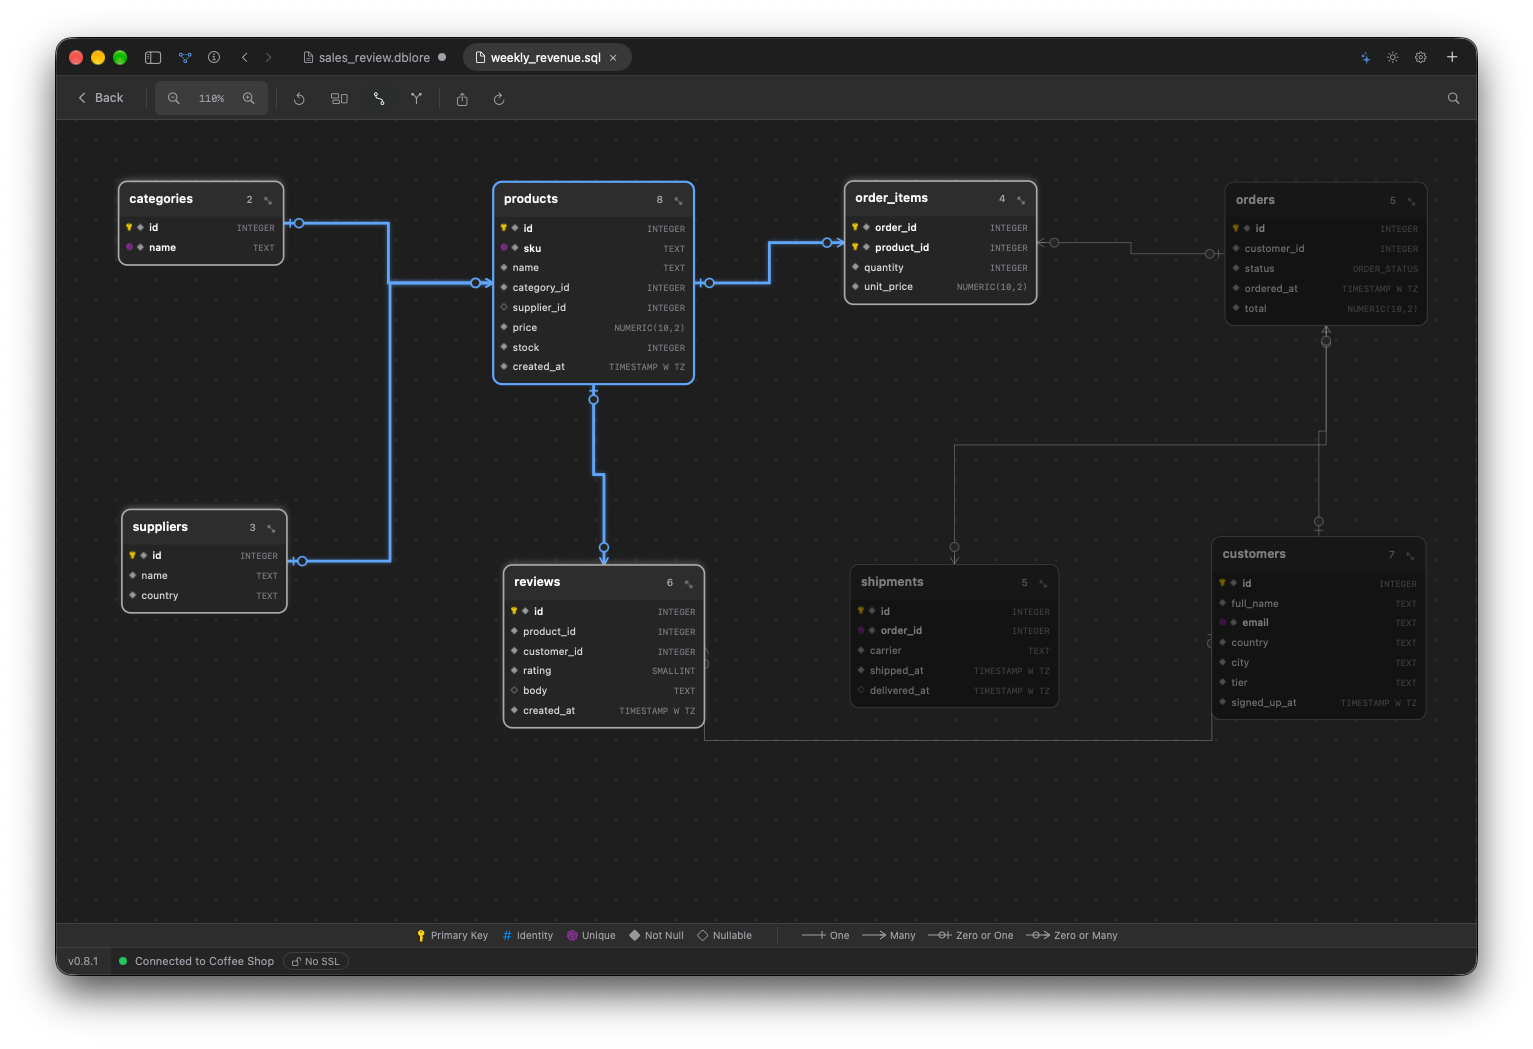
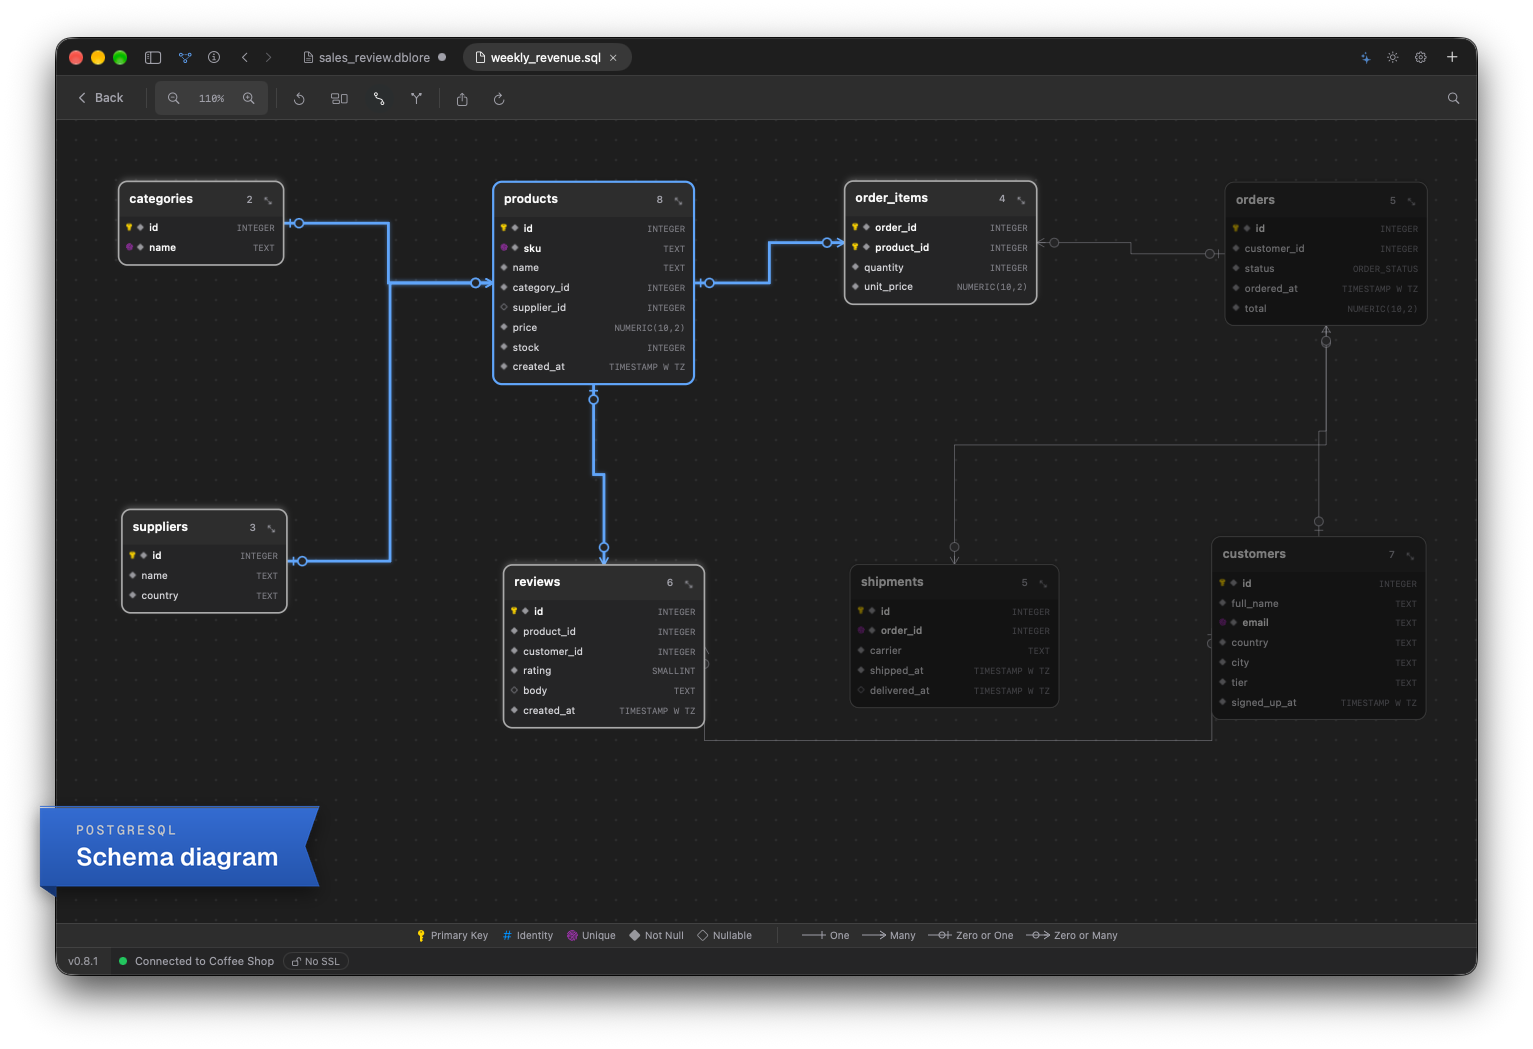
docs(website): label screenshots with database and feature ribbons

Changed region(s): [[0.0, 0.7626, 0.2146, 0.8541]]

diff --git a/website/README.md b/website/README.md
@@ -17,7 +17,7 @@ Open http://localhost:8080.
 - `tokens.css`: design tokens (OKLCH colors, Geist fonts, spacing). `styles.css`: layout and components.
 - `site.js`: theme toggle (the saved theme is applied by an inline script in each `<head>`).
 - The app version in each page header (`.version-badge`) is read at runtime from the same-origin `appcast.xml` (highest build number) by `site.js`; the static `v0.4.0` in each page is only a fallback for no-JS, local preview or fetch failure, so no hand edit is needed on release.
-- `logo.png`, `poster.jpg`, `screenshots/`: images (screenshots are copied from `assets/screenshots/`). `og.jpg`: the 1200×630 social card (`og:image`), rendered from `docs/showcase/source/og.html`. `CNAME`: custom domain. `.nojekyll`: disables Jekyll.
+- `logo.png`, `poster.jpg`, `screenshots/`: images (screenshots are the clean captures in `assets/screenshots/` with a database/feature ribbon added by `docs/showcase/source/label-shots.py`). `og.jpg`: the 1200×630 social card (`og:image`), rendered from `docs/showcase/source/og.html`. `CNAME`: custom domain. `.nojekyll`: disables Jekyll.
 
 ## Feature catalog maintenance
 
